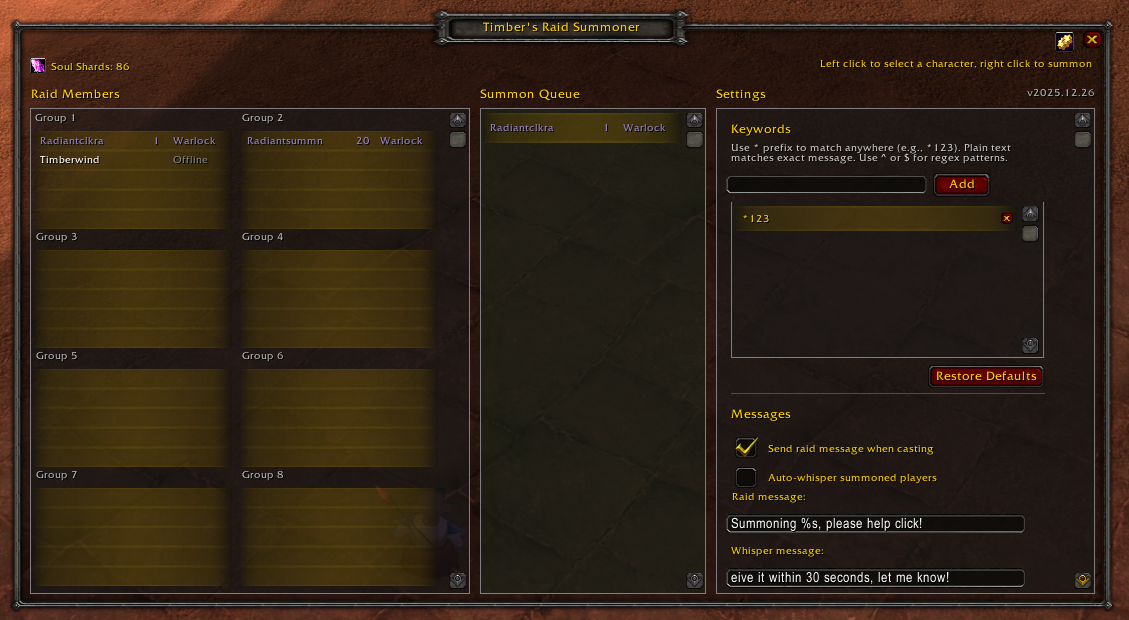
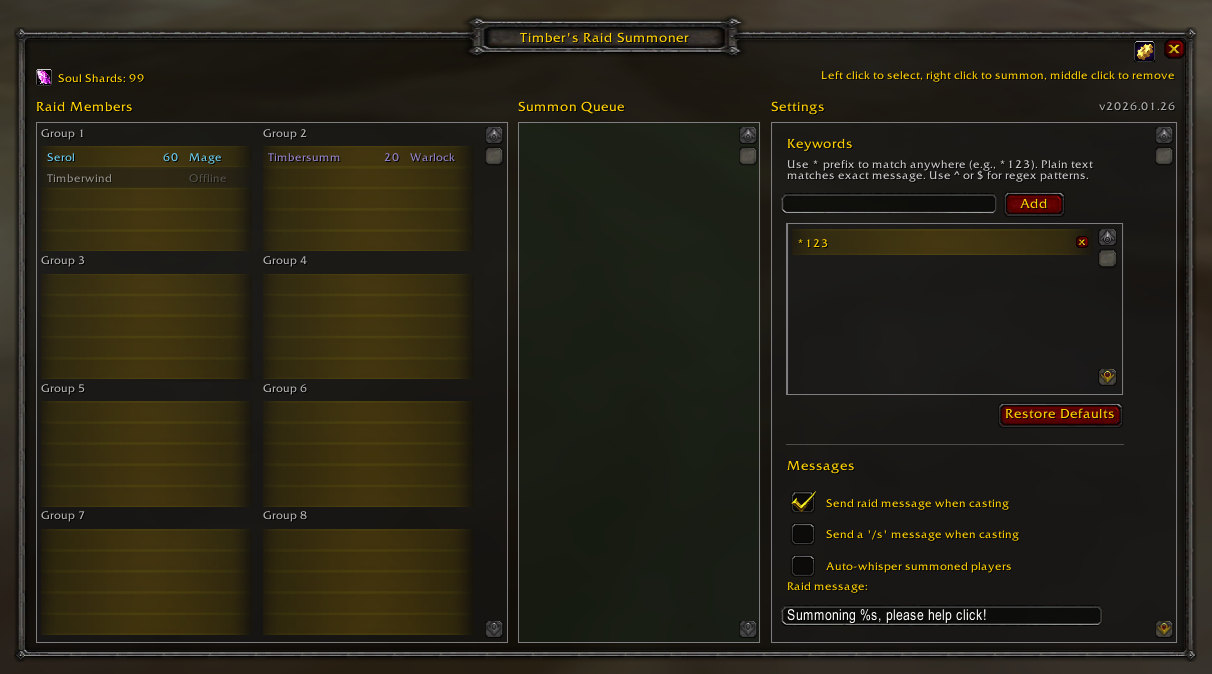
Updated documentation

diff --git a/Docs/Features.md b/Docs/Features.md
@@ -40,6 +40,10 @@ A comprehensive raid summon management addon for WoW Classic Era and Anniversary
 - "Summoning..." status is broadcast to all addon users in real-time
 - Players who join mid-summon will see the current summoning status
 
+### Soul Shard Count
+- Keep track of how many soul shards you have so you aren't caught off guard
+- A count in the top left corner of the addon window shows how many Soul Shards are in your bags
+
 ## Keyword Detection
 
 - Automatically detects summon requests in party and raid chat
